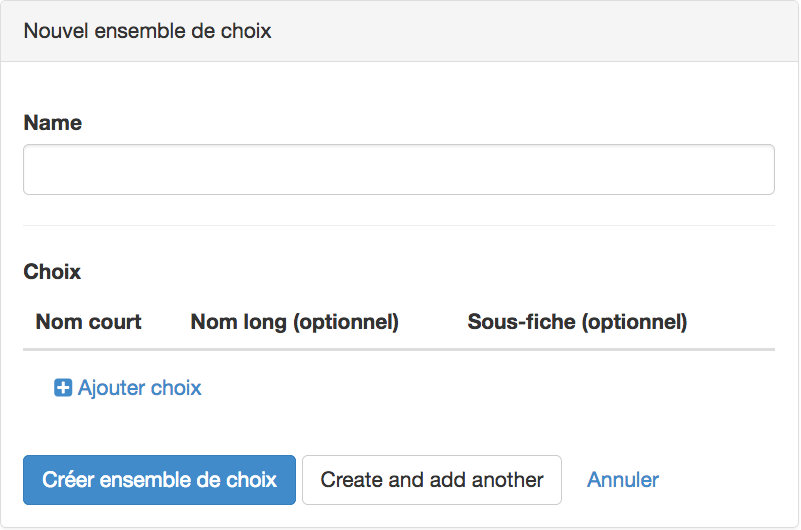
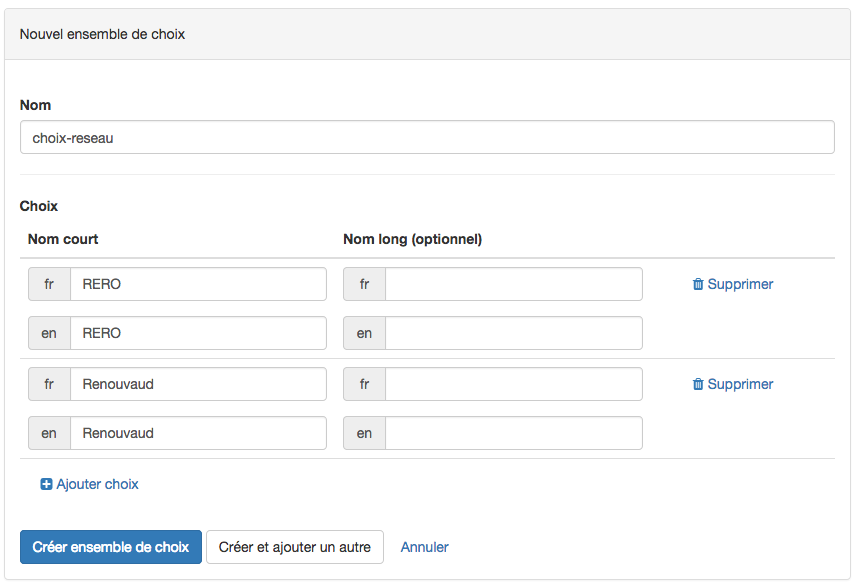
Added walkthrough examples and updated screenshots
- Added walkthrough examples for catalog’s setup and data
addition/edition
- Updated screenshots according to current version of Catima

diff --git a/fr/docs/user-guide/3-data.md b/fr/docs/user-guide/3-data.md
@@ -54,3 +54,96 @@ Il est possible de dupliquer une fiche en cliquant sur le bouton "Actions" puis 
 Cela ouvre la même page que pour l'ajout de données, avec les données de la fiche dupliquée, qu'il est possible de modifier.
 
 Une fois les champs modifiés, il est possible d'enregistrer et retourner au menu *Data* avec "*Créer fiche de type 'nom du type de fiche'*" ou d'enregistrer et ajouter de nouvelles données avec "*Create and add another*".
+
+# Exemple d'ajout de données dans un catalogue
+
+Afin d'illustrer l'ajout de données dans un catalogue, voici un exemple reprenant toutes les étapes décrites jusqu'à présent. Cet exemple consiste en un catalogue recensant les universités romandes et de leurs bibliothèques afin de les représenter sur une carte géographique.
+
+## Concept
+
+Les informations que le catalogue devra contenir à la fin sont les suivantes : 
+
+|  | Université de Fribourg | Université de Genève | Université de Lausanne | Université de Neuchâtel |
+|--------------------|--------------------------------------------------------------------------------------------------------------|------------------------------------------------------------------------------------------------------------------------------------------------|--------------------------------------------------------------------------------------------------------------------------------------------------------------------------------------------------------------------------------|--------------------------------------------------------------------------------------------------------------------------------------------------------------------------------------------------------------------------------------------------------------------------------------------------------------------------------------------------------------------------------------------------------------------------------------------------------------------------------------------------------------------------------------------------------------------------------------------------------------------------------------------------------------------|
+| Abbréviation | UNIFR | UNIGE | UNIL | UNINE |
+| Localité | Fribourg | Genève | Lausanne | Neuchâtel |
+| Bâtiments | Uni Beauregard, Uni Miséricorde, Uni Pérolles, Uni Régina Mundi |Battelle, Campus Biotech, CMU, Les Philosophes, Sciences, Uni Bastion, Uni Carl Vogt, Uni Dufour, Uni Mail, Uni Pignon |Amphimax, Amphipôle, Anthropole, Batochime, Biophore, Cubotron, Génopode, Internef, Unicentre, Unithèque|Rue de Saint-Nicolas 4, Place Numa-Droz 3, Chaussée de la Boine 20 , Fbg du Lac 5a, Av. DuPeyrou 1, etc.. |
+| Facultés |Droit, Lettres et sciences humaines, Sciences et médecine, Sciences économiques et sociales, Théologie |Droit, Économie et management, Lettres, Médecine, Psychologie et sciences de l'éducation, Sciences, Sciences de la société, Théologie |Biologie et médecine, Droit, sciences criminelles et administration publique, Géosciences et environnement, Hautes études commerciales, Lettres, Sciences sociales et politiques, Théologie et sciences des religions  |Droit, Lettres et sciences humaines, Sciences,Sciences économiques |
+| Nombre d'étudiants | 10414 |  16935 | 14976 | 4284 |
+| Bibliothèque | Bibliothèque cantonale et universitaire (Fribourg) | Bibliothèque de l'Université de Genève | Bibliothèque cantonale et universitaire (Lausanne) | Bibliothèques UniNE |
+| Adresse | Avenue de l'Europe 20, 1700 Fribourg | 24 rue du Général-Dufour,   1211 Genève 4 | Unicentre, 1015 Lausanne | Avenue du 1er-Mars 26, 2000 Neuchâtel |
+| Site web | www.unifr.ch | www.unige.ch | www.unil.ch | www.unine.ch |
+
+Dans cet exemple, les concepts d'Université et de Bibliothèque sont centraux dans ce catalogue. 
+
+Conceptuellement, voici les entités qui composent ce catalogue et les champs qu'il s'agira de remplir.
+
+|Localité
+|---
+|Nom de la localité
+|Canton
+|Population
+---
+
+|Université
+|---
+|Nom de l'Université
+|Abbréviation
+|Localité ==> **concept "Localité"**
+|Facultés
+|Nombre d'étudiants
+|Photographies
+|Adresse
+|Site web
+----
+
+|Bâtiment
+|---
+|Nom du bâtiment
+|Localisation géographique
+|Université ==> **concept "Université"**
+---
+
+|Bibliothèque
+|---
+|Nom de la bibliothèque
+|Abbréviation
+|Réseau
+|Bâtiment ==> **concept "Bâtiment"**
+|Université  ==> **concept "Université"**
+---
+
+### Types de fiches et liens
+
+Les quatre concepts précédements relevés, "Université", "Bibliothèque", "Localité", "Bâtiment", correspondent aux types de fiches existants dans Catima.
+
+**Liens conceptuels entre les types de fiches :**
+
+* Une **localité** a une et une seule **université**
+* Une **université** a une, ou plusieurs **bibliothèque(s)**
+* Une **université** a un, ou plusieurs **bâtiment(s)**
+
+### Ajout d'une fiche
+
+Le concept de "Localité" étant le concept le plus large (un bâtiment se situe dans une université, qui est dans une localité), il englobe les concepts plus précis que lui, à savoir "Université", qui lui-même englobe les "Bâtiments" et les "Bibliothèques". C'est pourquoi il est judicieux d'ajouter d'abord des fiches aux entités les plus larges, ici "Localité". Ainsi lors de l'ajout d'une nouvelle université (puis de nouveaux bâtiments et bibliothèques) il existera toujours l'entité plus globale à laquelle faire référence. 
+
+La structure du catalogue a été crée dans cet exemple par l'adminstrateur-trice du catalogue. La tâche ici est d'ajouter de nouvelles données en suivant la structure existante. 
+
+Ainsi pour ajouter une nouvelle localité : dans la section "Data" de Catima, sélectionner "Localités" dans la colonne latérale gauche. 
+
+Une liste des localités existante s'affiche : 
+
+![](assets/captures_CATIMA/data/new_data_ex1.PNG)  
+
+Cliquer sur "+ Nouveau type de fiche 'Localité'" puis remplir tous les champs nécessaires : 
+
+![](assets/captures_CATIMA/data/new_data_ex2.PNG)  
+
+Une fois la localité créée, il est possible de lui ajouter l'Université dans la localité de Lausanne :
+
+![](assets/captures_CATIMA/data/new_data_ex3.PNG)  
+
+Puis d'ajouter les données des autres types de fiches "Bâtiments" et "Bibliothèques" : 
+
+![](assets/captures_CATIMA/data/new_data_ex4.PNG)  
+
